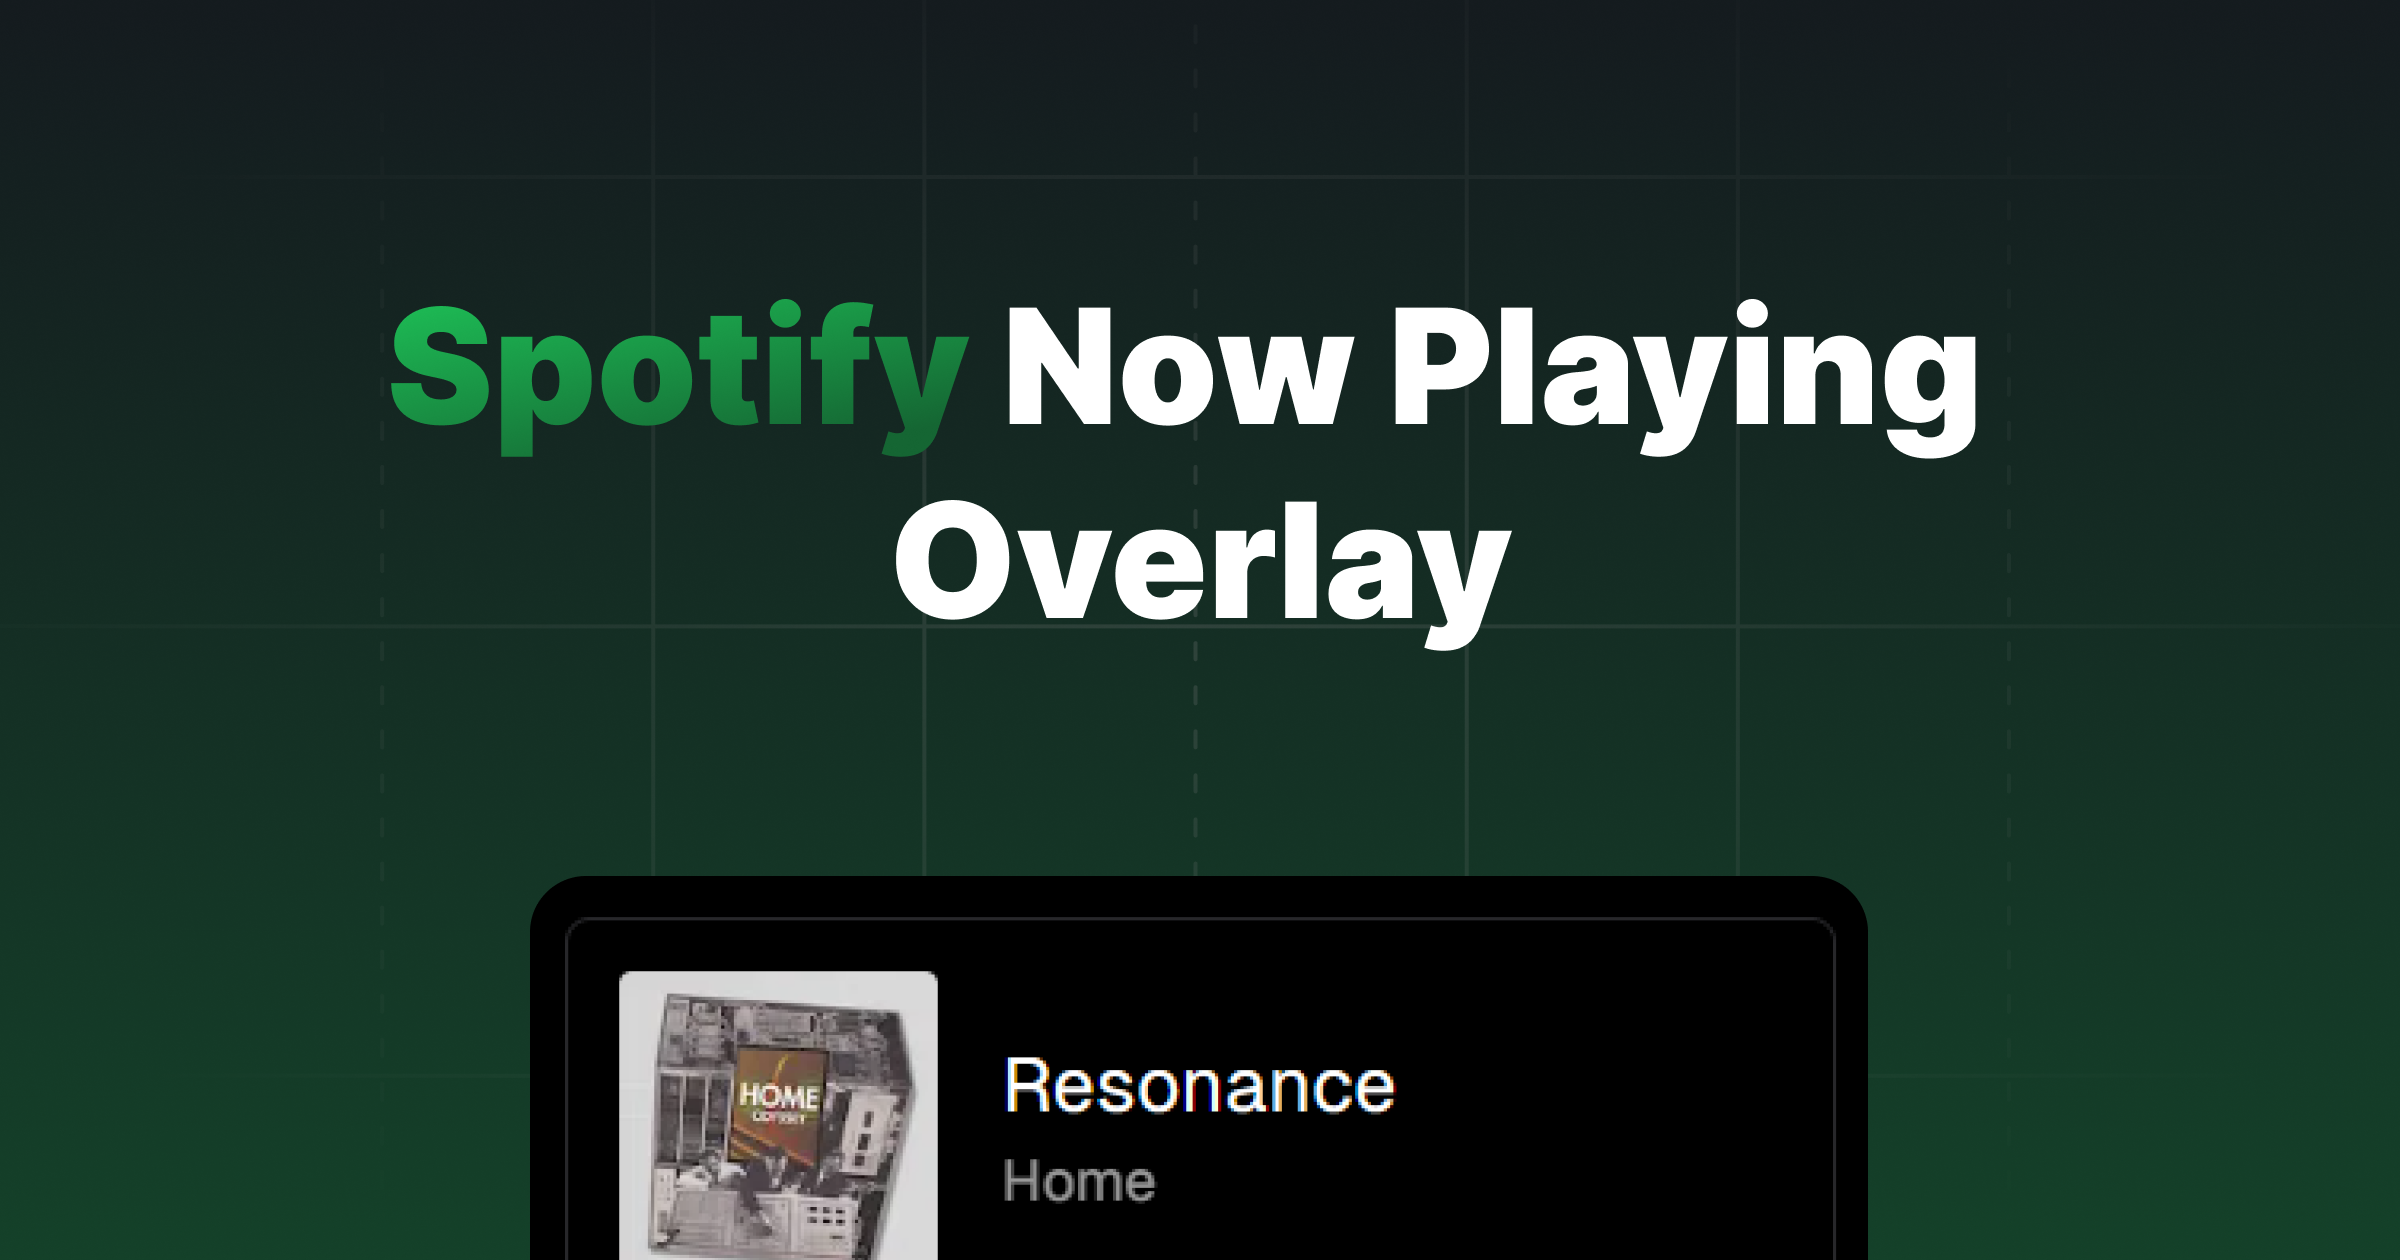
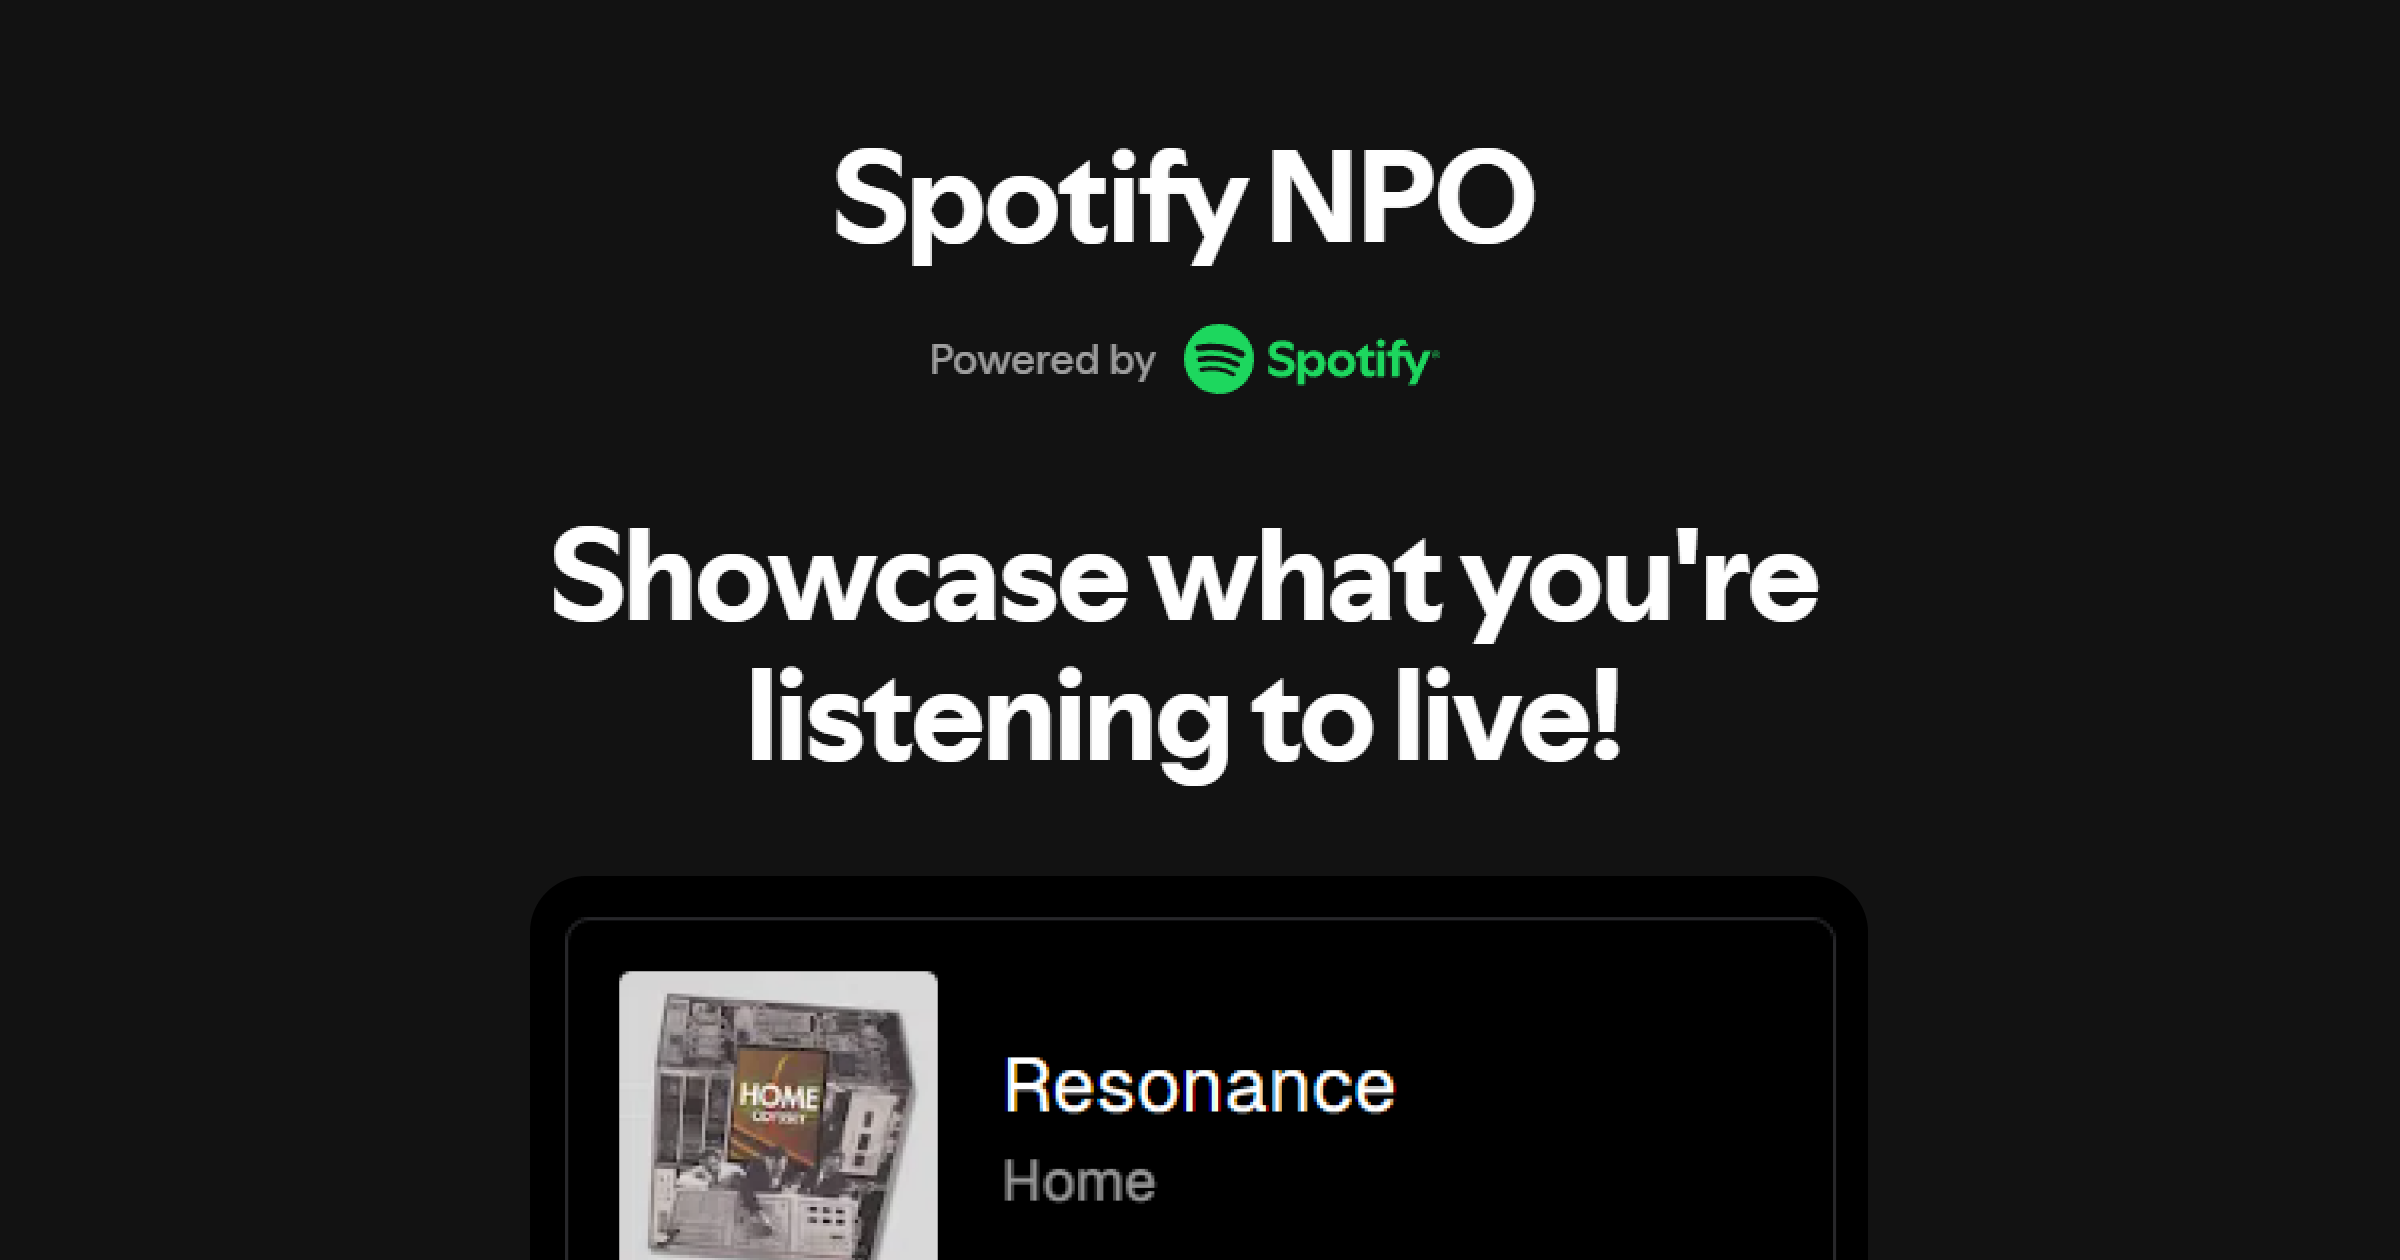
updated metadata

diff --git a/src/app/layout.tsx b/src/app/layout.tsx
@@ -1,74 +1,68 @@
-import type { Metadata } from "next";
-import localFont from "next/font/local";
-import Script from "next/script";
-import { Toaster } from "react-hot-toast";
-import "./globals.css";
+import type { Metadata } from 'next';
+import localFont from 'next/font/local';
+import Script from 'next/script';
+import { Toaster } from 'react-hot-toast';
+import './globals.css';
 
 const spotifyMixUi = localFont({
-  src: [
-    {
-      path: "../fonts/SpotifyMixUI-Regular.woff2",
-      weight: "400",
-      style: "normal",
-    },
-    {
-      path: "../fonts/SpotifyMixUI-Bold.woff2",
-      weight: "700",
-      style: "bold",
-    },
-  ],
-  variable: "--font-spotify-mix-ui",
+    src: [
+        {
+            path: '../fonts/SpotifyMixUI-Regular.woff2',
+            weight: '400',
+            style: 'normal',
+        },
+        {
+            path: '../fonts/SpotifyMixUI-Bold.woff2',
+            weight: '700',
+            style: 'bold',
+        },
+    ],
+    variable: '--font-spotify-mix-ui',
 });
 
 const spotifyMixUiTitle = localFont({
-  src: "../fonts/SpotifyMixUITitleVariable.woff2",
-  display: "swap",
-  variable: "--font-spotify-mix-ui-title",
+    src: '../fonts/SpotifyMixUITitleVariable.woff2',
+    display: 'swap',
+    variable: '--font-spotify-mix-ui-title',
 });
 
+export const description =
+    'The easiest way to showcase your music. Display what your listening to on Spotify live. Embed on your websites or in you live streams.';
+
 export const metadata: Metadata = {
-  title: "Spotify Now Playing Overlay",
+    title: 'Spotify NPO',
 
-  description:
-    "Display your currently playing track on Spotify. Embed in your websites or add to your stream overlays.",
-  openGraph: {
-    title: "Spotify Now Playing Overlay",
-    description:
-      "Display your currently playing track on Spotify. Embed in your websites or add to your stream overlays.",
-    type: "website",
-  },
-  twitter: {
-    card: "summary_large_image",
-    title: "Spotify Now Playing Overlay",
-    description:
-      "Display your currently playing track on Spotify. Embed in your websites or add to your stream overlays.",
-  },
+    description,
+    openGraph: {
+        title: 'Spotify NPO',
+        description,
+        type: 'website',
+    },
+    twitter: {
+        card: 'summary_large_image',
+        title: 'Spotify NPO',
+        description,
+    },
 
-  verification: {
-    google: `${process.env.GOOGLE_SITE_VERIFICATION}`,
-  },
+    verification: {
+        google: `${process.env.GOOGLE_SITE_VERIFICATION}`,
+    },
 };
 
-export default function RootLayout({
-  children,
-}: {
-  children: React.ReactNode;
-}) {
-  return (
-    <>
-      <Script
-        async
-        src="https://analytics.eu.umami.is/script.js"
-        data-website-id="8c33b96a-3845-4323-b8f1-457d1403ace4"
-      />
-      <html lang="en">
-        <body
-          className={`${spotifyMixUi.variable} ${spotifyMixUiTitle.variable} font-mix-ui`}
-        >
-          {children}
-          <Toaster position="top-center" />
-        </body>
-      </html>
-    </>
-  );
+export default function RootLayout({ children }: { children: React.ReactNode }) {
+    return (
+        <>
+            <Script
+                async
+                src="https://analytics.eu.umami.is/script.js"
+                data-website-id="8c33b96a-3845-4323-b8f1-457d1403ace4"
+            />
+            <html lang="en">
+                <body className={`${spotifyMixUi.variable} ${spotifyMixUiTitle.variable} font-mix-ui`}>
+                    {children}
+                    <Toaster position="top-center" />
+                </body>
+            </html>
+        </>
+    );
 }

diff --git a/src/app/manifest.ts b/src/app/manifest.ts
@@ -1,0 +1,26 @@
+import { MetadataRoute } from 'next';
+import { description } from './layout';
+
+export default function manifest(): MetadataRoute.Manifest {
+    return {
+        name: 'Spotify NPO',
+        short_name: 'Spotify NPO',
+        description,
+        start_url: '/',
+        display: 'standalone',
+        background_color: '#121212',
+        theme_color: '#121212',
+        icons: [
+            {
+                src: '/icon-192.png',
+                sizes: '192x192',
+                type: 'image/png',
+            },
+            {
+                src: '/icon-512.png',
+                sizes: '512x512',
+                type: 'image/png',
+            },
+        ],
+    };
+}
